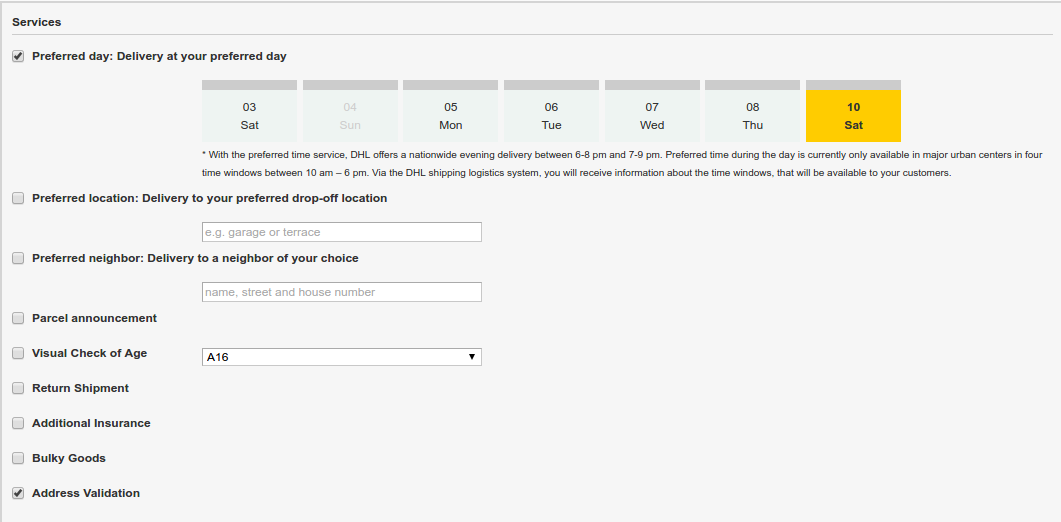
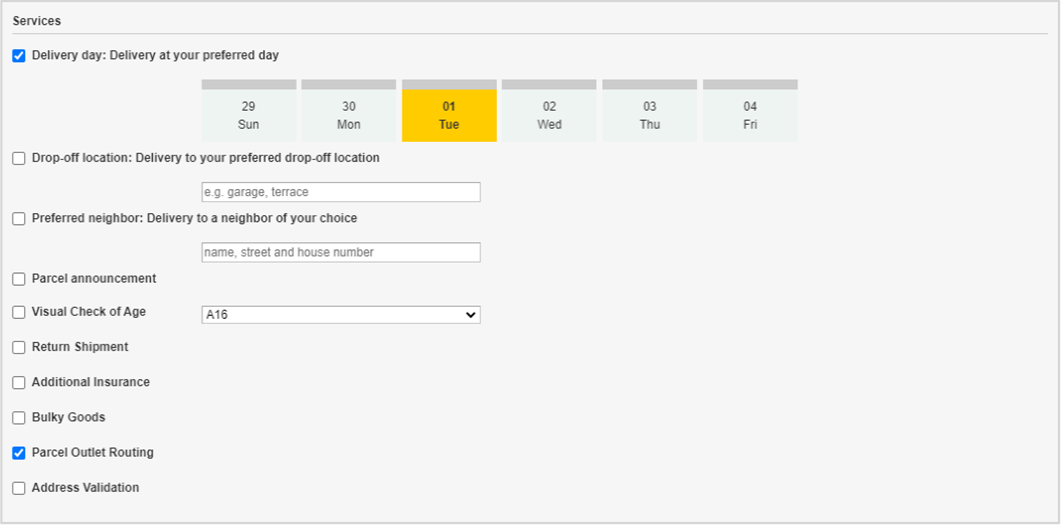
DHLGKP-289: update service names in documentation

diff --git a/src/app/code/community/Dhl/Versenden/Model/Observer.php b/src/app/code/community/Dhl/Versenden/Model/Observer.php
@@ -272,10 +272,10 @@ class Dhl_Versenden_Model_Observer extends Dhl_Versenden_Model_Observer_Abstract
 
             $initialPrice = $store->getConfig("carriers/{$carrierCode}/price");
             $initialFeeType = $store->getConfig("carriers/{$carrierCode}/handling_type");
-            $initialFee = $store->getConfig("carriers/{$carrierCode}/handling_fee");
+            $initialFee = (float) $store->getConfig("carriers/{$carrierCode}/handling_fee");
 
             if ($initialFeeType === Mage_Shipping_Model_Carrier_Abstract::HANDLING_TYPE_FIXED) {
-                $handlingFee = $prefDayHandlingFee +  + $initialFee ;
+                $handlingFee = $prefDayHandlingFee + $initialFee ;
             } elseif ($initialFeeType === Mage_Shipping_Model_Carrier_Abstract::HANDLING_TYPE_PERCENT) {
                 $initialFixedFee = ($initialFee / 100) * $initialPrice;
                 $handlingFee =  $initialFixedFee + $prefDayHandlingFee;

diff --git a/src/app/code/community/Dhl/Versenden/Model/Services/Processor.php b/src/app/code/community/Dhl/Versenden/Model/Services/Processor.php
@@ -122,10 +122,14 @@ class Dhl_Versenden_Model_Services_Processor
     {
         $result = false;
         foreach ($this->quote->getAllItems() as $item) {
-            /** @var Mage_Sales_Model_Quote_Item $item */
+            /** @var Mage_Sales_Model_Quote_Item|Mage_Sales_Model_Order_Item $item */
             $stockItem = $item->getProduct()->getData('stock_item');
             $qty = $item->getParentItemId() ? (float)$item->getParentItem()->getQty() : (float)$item->getQty();
-            $children = $item->getChildren();
+            if ($item instanceof Mage_Sales_Model_Quote_Item) {
+                $children = $item->getChildren();
+            } else {
+                $children = $item->getChildrenItems();
+            }
 
             if (empty($children) &&
                 ((float)$stockItem->getQty() === 0.0 || $qty >= (float)$stockItem->getQty())

diff --git a/doc/src/EndKundenDoku.rst b/doc/src/EndKundenDoku.rst
@@ -289,9 +289,9 @@ angeboten werden.
 Beachten Sie bitte auch die Hinweise zur `Buchbarkeit von Zusatzservices`_ sowie die
 `Zusatzkosten für Services`_ und die Hinweise zum `Datenschutz`_.
 
-* *Wunschort*: Der Kunde wählt einen alternativen Ablageort für seine Sendung,
+* *Ablageort*: Der Kunde wählt einen alternativen Ablageort für seine Sendung,
   falls er nicht angetroffen wird.
-* *Wunschnachbar*: Der Kunde wählt eine alternative Adresse in der Nachbarschaft
+* *Nachbar*: Der Kunde wählt eine alternative Adresse in der Nachbarschaft
   für die Abgabe der Sendung, falls er nicht angetroffen wird.
 * *Automatische Paketankündigung*: Der Kunde wird per E-Mail von DHL über den Status seiner
   Sendung informiert. Hierzu wird die E-Mail-Adresse des Kunden an DHL übermittelt (siehe
@@ -301,22 +301,22 @@ Beachten Sie bitte auch die Hinweise zur `Buchbarkeit von Zusatzservices`_ sowie
   * *Aktivieren auf Kundenwunsch*: Der Kunde kann im Checkout wählen, ob der Service gebucht werden soll.
   * *Nein*: Der Service wird nie hinzugebucht.
 
-* *Wunschtag*: Der Kunde wählt einen festgelegten Tag für seine Sendung,
-  an welchem die Lieferung ankommen soll. Die verfügbaren Wunschtage werden dynamisch
+* *Liefertag*: Der Kunde wählt einen festgelegten Tag für seine Sendung,
+  an welchem die Lieferung ankommen soll. Die verfügbaren Liefertage werden dynamisch
   angezeigt, basierend auf der Empfängeradresse.
 
-* *Wunschtag Aufpreis (Serviceaufschlag)*: Dieser Betrag wird zu den Versandkosten
+* *Liefertag Aufpreis (Serviceaufschlag)*: Dieser Betrag wird zu den Versandkosten
   hinzu addiert, wenn der Zusatzservice verwendet wird. Verwenden Sie Punkt statt Komma
   als Trennzeichen. Der Betrag muss in Brutto angegeben werden (einschl. Steuern).
   Wenn Sie die Zusatzkosten nicht an den Kunden weiterreichen wollen, tragen Sie hier
   ``0`` ein.
-* *Wunschtag  Serviceaufschlag Hinweistext*: Dieser Text wird dem Kunden
+* *Liefertag  Serviceaufschlag Hinweistext*: Dieser Text wird dem Kunden
   im Checkout angezeigt, wenn der Zusatzservice ausgewählt wird. Sie können den
   Platzhalter ``$1`` im Text verwenden, welcher im Checkout durch den Zusatzbetrag
   und die Währung ersetzt wird.
 * *Annahmeschluss*: Legt den Zeitpunkt fest, bis zu dem eingegangene Bestellungen
   noch am selben Tag abgeschickt werden. Bestellungen, die *nach* Annahmeschluss
-  eingehen, werden nicht mehr am selben Tag verschickt. Der früheste Wunschtag
+  eingehen, werden nicht mehr am selben Tag verschickt. Der früheste Liefertag
   verschiebt sich dann um einen Tag.
 
 .. admonition:: Hinweis zu Annahmeschluss
@@ -382,20 +382,20 @@ auf das Retoure-Label gedruckt werden soll, wenn dieser Service gebucht wird.
 Buchbarkeit von Zusatzservices
 ------------------------------
 
-Die tatsächlich buchbaren Services sowie die wählbaren Wunschtage hängen
+Die tatsächlich buchbaren Services sowie die wählbaren Liefertage hängen
 von der Lieferadresse bzw. dem Zielland ab. Dazu wird die DHL Paketsteuerung API während
 des Checkouts verwendet. Nicht verfügbare Services werden im Checkout
 automatisch ausgeblendet.
 
 Falls die Bestellung Artikel enthält, die nicht sofort lieferbar sind, ist keine Buchung
-vom Wunschtag möglich.
+vom Liefertag möglich.
 
-Die gleichzeitige Buchung von Wunschort und Wunschnachbar ist nicht möglich.
+Die gleichzeitige Buchung von Ablageort und Nachbar ist nicht möglich.
 
 Zusatzkosten für Services
 -------------------------
 
-Der Service *Wunschtag* ist **standardmäßig aktiviert!** Wird dieser gebucht, wird
+Der Service *Liefertag* ist **standardmäßig aktiviert!** Wird dieser gebucht, wird
 der konfigurierte Service-Aufschlag zu den Versandkosten hinzugefügt.
 
 Bei Nutzung der Versandart *Free Shipping / Versandkostenfrei* werden die eingestellten
@@ -409,7 +409,7 @@ für Zusatzservices erhalten.
 Trackingpixel für Zusatzservices
 --------------------------------
 
-Sollten Sie die Wunschpaket-Services in Ihrem Shop-Frontend anzeigen wollen, beachten Sie bitte
+Sollten Sie die Wunschzustellung-Services in Ihrem Shop-Frontend anzeigen wollen, beachten Sie bitte
 folgenden Hinweis:
 
 Die Extension stellt zu Reportingzwecken ein Tracking-Pixel im Checkout dar. Darüber werden
@@ -421,7 +421,7 @@ Diese Funktion kann hier deaktiviet werden:
 
 ::
 
-  System → Konfiguration → Zur Kasse → DHL Wunschpaket Tracking → Nein
+  System → Konfiguration → Zur Kasse → DHL Wunschzustellung Tracking → Nein
 
 
 Ablaufbeschreibung und Features
@@ -568,7 +568,7 @@ Die vom Kunden im Checkout gewählten Services sind entsprechend vorbelegt, eben
 wie die *Adressprüfung* (Nur leitkodierbare Versandaufträge erteilen) gemäß der
 Modulkonfiguration_.
 
-Beachten Sie, dass bei Wunschort oder Wunschnachbar folgende Angaben **nicht** zulässig sind:
+Beachten Sie, dass bei Ablageort oder Nachbar folgende Angaben **nicht** zulässig sind:
 
 **Unzulässige Sonderzeichen**
 
@@ -772,7 +772,7 @@ wie im Abschnitt `Erstellen eines Versandauftrags`_ beschrieben.
 DHL Zusatzservices
 ~~~~~~~~~~~~~~~~~~
 
-Bei Problemen mit `DHL Zusatzleistungen im Checkout`_ (z.B. Wunschtag) werden die Fehlermeldungen
+Bei Problemen mit `DHL Zusatzleistungen im Checkout`_ (z.B. Liefertag) werden die Fehlermeldungen
 in eine separate Log-Datei geschrieben. Siehe Hinweise im Kapitel `Allgemeine Einstellungen`_.
 Das Log enthält Hinweise zur weiteren Fehlersuche.
 

diff --git a/doc/src/EndUserDoc.rst b/doc/src/EndUserDoc.rst
@@ -279,9 +279,9 @@ additional DHL services you want to offer to your customers.
 Please also note the information about `Booking additional services`_ and
 `Additional costs for services`_.
 
-* *Enable Preferred Location*: The customer selects an alternative location where
+* *Enable Drop-off Location*: The customer selects an alternative location where
   the shipment can be placed in case they are not at home.
-* *Enable Preferred Neighbor*: The customer selects an alternative address in the
+* *Enable Neighbor*: The customer selects an alternative address in the
   neighborhood for the shipment in case they are not at home.
 * *Enable Automatic Parcel Announcement*: The customer gets notified by email about the status
   of the shipment. The customer's email address will be transmitted to DHL for this service
@@ -291,19 +291,19 @@ Please also note the information about `Booking additional services`_ and
   * *Enable on customers choice*: The customer decides in the checkout if the service should be booked.
   * *No*: The service will not be booked.
 
-* *Enable Preferred Day*: The customer chooses a specific day on which the shipment
+* *Enable delivery day*: The customer chooses a specific day on which the shipment
   should arrive. The available days are displayed dynamically, depending on the recipient's
   address.
-* *Preferred day handling additional charge (handling fee)*: This amount will
+* *delivery day handling additional charge (handling fee)*: This amount will
   be added to the shipping cost if the service is used. Use a decimal point, not comma.
   The gross amount must be entered here (incl. VAT). If you want to offer the service
   for free, enter a ``0`` here.
-* *Preferred day handling fee text*: This text will be displayed to the customer
+* *delivery day handling fee text*: This text will be displayed to the customer
   in the checkout if the service has been selected. You can use the placeholder ``$1``
   in the text which will show the additional handling fee and currency in the checkout.
 * *Cut off time*: This sets the time up to which new orders will be dispatched on the
   same day. Orders placed *after* the cut off time will not be dispatched on the same
-  day. The earliest possible preferred day will then be postponed by one day.
+  day. The earliest possible delivery day will then be postponed by one day.
 
 .. admonition:: Cut off time
 
@@ -369,20 +369,20 @@ on the Return Label, if that service was booked.
 Booking additional services
 ---------------------------
 
-The available services as well as preferred days depend on the
+The available services as well as delivery days depend on the
 actual shipping address and country. The DHL Parcel Management API is used for this
 during the checkout process. Unusable services will be hidden in the checkout
 automatically.
 
 If the order contains articles which are not in stock, it won't be possible to book
-preferred day.
+delivery day.
 
-The services *Preferred location* and *Preferred neighbor* cannot be booked together.
+The services *drop-off location* and *neighbor* cannot be booked together.
 
 Additional costs for services
 -----------------------------
 
-The service *Preferred Day* is **enabled by default!**
+The service *delivery day* is **enabled by default!**
 Therefore the standard DHL handling fee will be added to the shipping cost.
 
 When using the shipping method *Free Shipping* the additional handling fees will
@@ -406,7 +406,7 @@ This function can be disabled here:
 
 ::
 
-  System → Configuration → Checkout → DHL Versenden Tracking → No
+  System → Configuration → Checkout → DHL Preferred Delivery Tracking → No
 
 
 Workflow and features
@@ -546,7 +546,7 @@ The services selected by the customer in the checkout will already be selected
 here. Also, the service *Address validation* (Print only if codeable) will be
 selected if enabled in the general `Module configuration`_.
 
-Please note that the following inputs are **not** allowed for *Preferred location* and *Preferred neighbor*:
+Please note that the following inputs are **not** allowed for *drop-off location* and *neighbor*:
 
 **Invalid special characters**
 
@@ -739,7 +739,7 @@ process is the same as described in `Creating a shipment`_.
 Addition DHL services
 ~~~~~~~~~~~~~~~~~~~~~
 
-In case of problems with `Additional Services In Checkout`_ (e.g. preferred day), error messages will be
+In case of problems with `Additional Services In Checkout`_ (e.g. delivery day), error messages will be
 written to a separate log file. See the notes in chapter `General settings`_. The log contains information
 for further troubleshooting.
 
